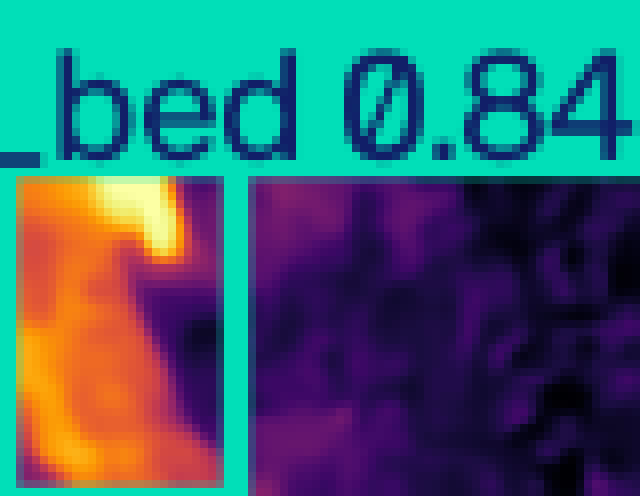
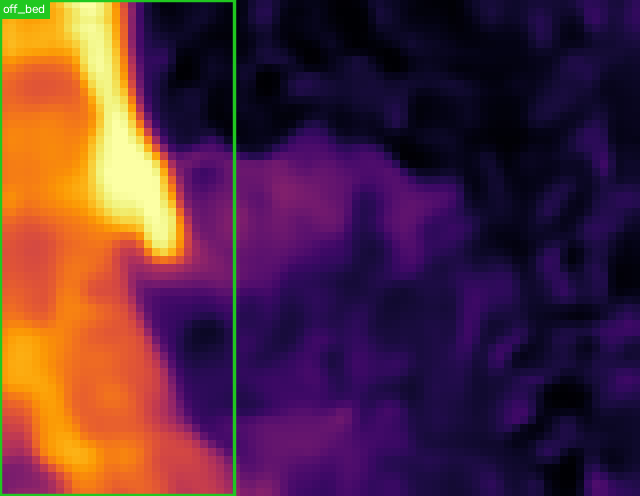
docs: pair compact IR predictions with RGB references

diff --git a/predict.py b/predict.py
@@ -17,6 +17,12 @@ STATE_ZH = {
     "other": "其他行为",
     "off_bed": "床下",
 }
+STATE_COLORS = {
+    "lie": (255, 96, 32),
+    "sit": (255, 200, 32),
+    "other": (200, 32, 255),
+    "off_bed": (32, 200, 32),
+}
 IMAGE_SUFFIXES = {".png", ".jpg", ".jpeg", ".bmp", ".webp"}
 
 
@@ -33,12 +39,24 @@ def parse_args() -> argparse.Namespace:
     parser.add_argument("--imgsz", type=int, default=320)
     parser.add_argument("--conf", type=float, default=0.25)
     parser.add_argument("--iou", type=float, default=0.5)
+    parser.add_argument(
+        "--line-width",
+        type=int,
+        default=2,
+        help="box stroke width in the saved visualization",
+    )
+    parser.add_argument("--font-scale", type=float, default=0.4)
+    parser.add_argument(
+        "--show-confidence",
+        action="store_true",
+        help="include confidence in image labels (always retained in JSONL)",
+    )
     parser.add_argument("--device", default="0")
     parser.add_argument(
         "--upscale",
         type=int,
-        default=1,
-        help="nearest-neighbor scale factor for saved visualizations",
+        default=8,
+        help="nearest-neighbor scale factor for saved visualizations only",
     )
     return parser.parse_args()
 
@@ -53,6 +71,66 @@ def collect_images(source: Path) -> list[Path]:
             if path.is_file() and path.suffix.lower() in IMAGE_SUFFIXES
         )
     raise FileNotFoundError(source)
+
+
+def render_prediction(
+    image,
+    detections: list[dict],
+    upscale: int,
+    line_width: int,
+    font_scale: float,
+    show_confidence: bool,
+):
+    """Upscale first, then draw thin boxes and compact labels at output resolution."""
+    if upscale > 1:
+        image = cv2.resize(
+            image,
+            None,
+            fx=upscale,
+            fy=upscale,
+            interpolation=cv2.INTER_NEAREST,
+        )
+    height, width = image.shape[:2]
+    scale = float(upscale)
+    font = cv2.FONT_HERSHEY_SIMPLEX
+    text_thickness = 1
+    for detection in detections:
+        x1, y1, x2, y2 = [int(round(value * scale)) for value in detection["bbox_xyxy"]]
+        x1, x2 = sorted((max(0, min(x1, width - 1)), max(0, min(x2, width - 1))))
+        y1, y2 = sorted((max(0, min(y1, height - 1)), max(0, min(y2, height - 1))))
+        state = detection["state"]
+        color = STATE_COLORS.get(state, (255, 255, 255))
+        cv2.rectangle(image, (x1, y1), (x2, y2), color, line_width, cv2.LINE_AA)
+
+        label = state
+        if show_confidence:
+            label += f" {detection['confidence']:.2f}"
+        (text_width, text_height), baseline = cv2.getTextSize(
+            label, font, font_scale, text_thickness
+        )
+        label_x = max(0, min(x1, width - text_width - 6))
+        label_top = y1 - text_height - baseline - 6
+        if label_top < 0:
+            label_top = y1
+        label_bottom = min(height - 1, label_top + text_height + baseline + 6)
+        cv2.rectangle(
+            image,
+            (label_x, label_top),
+            (min(width - 1, label_x + text_width + 6), label_bottom),
+            color,
+            -1,
+        )
+        cv2.putText(
+            image,
+            label,
+            (label_x + 3, label_top + text_height + 2),
+            font,
+            font_scale,
+            (255, 255, 255),
+            text_thickness,
+            cv2.LINE_AA,
+        )
+    return image
 
 
 def main() -> None:
@@ -103,15 +181,14 @@ def main() -> None:
             record = {"image": source_path.name, "detections": detections}
             output_jsonl.write(json.dumps(record, ensure_ascii=False) + "\n")
 
-            annotated = result.plot()
-            if args.upscale > 1:
-                annotated = cv2.resize(
-                    annotated,
-                    None,
-                    fx=args.upscale,
-                    fy=args.upscale,
-                    interpolation=cv2.INTER_NEAREST,
-                )
+            annotated = render_prediction(
+                result.orig_img.copy(),
+                detections,
+                args.upscale,
+                args.line_width,
+                args.font_scale,
+                args.show_confidence,
+            )
             rendered_name = f"{index:06d}_{source_path.parent.name}_{source_path.name}"
             if not cv2.imwrite(str(args.output / rendered_name), annotated):
                 raise RuntimeError(f"Failed to write rendered prediction for {source_path}")

diff --git a/README.md b/README.md
@@ -65,13 +65,18 @@ infrared-only predictions under [`examples/`](examples/).
 
 ### Test examples
 
-| Lie | Sit |
-|---|---|
-| ![lie prediction](examples/example_lie.png) | ![sit prediction](examples/example_sit.png) |
+RGB is shown only as a synchronized visual reference. It is never passed to
+the model. The room10 examples are pixel-aligned; the room03/room18 RGB comes
+from a separate phone viewpoint and is only semantically paired.
+Exact timestamps and time offsets are recorded in
+[`examples/pairs.json`](examples/pairs.json).
 
-| Other | Off bed |
-|---|---|
-| ![other prediction](examples/example_other.png) | ![off-bed prediction](examples/example_off_bed.png) |
+| State | Infrared prediction (model input) | Paired RGB reference |
+|---|---|---|
+| `lie` | ![lie infrared prediction](examples/example_lie.png) | ![lie RGB reference](examples/rgb_lie.jpg) |
+| `sit` | ![sit infrared prediction](examples/example_sit.png) | ![sit RGB reference](examples/rgb_sit.jpg) |
+| `other` | ![other infrared prediction](examples/example_other.png) | ![other RGB reference](examples/rgb_other.jpg) |
+| `off_bed` | ![off-bed infrared prediction](examples/example_off_bed.png) | ![off-bed RGB reference](examples/rgb_off_bed.jpg) |
 
 ## Installation and reproduction
 
